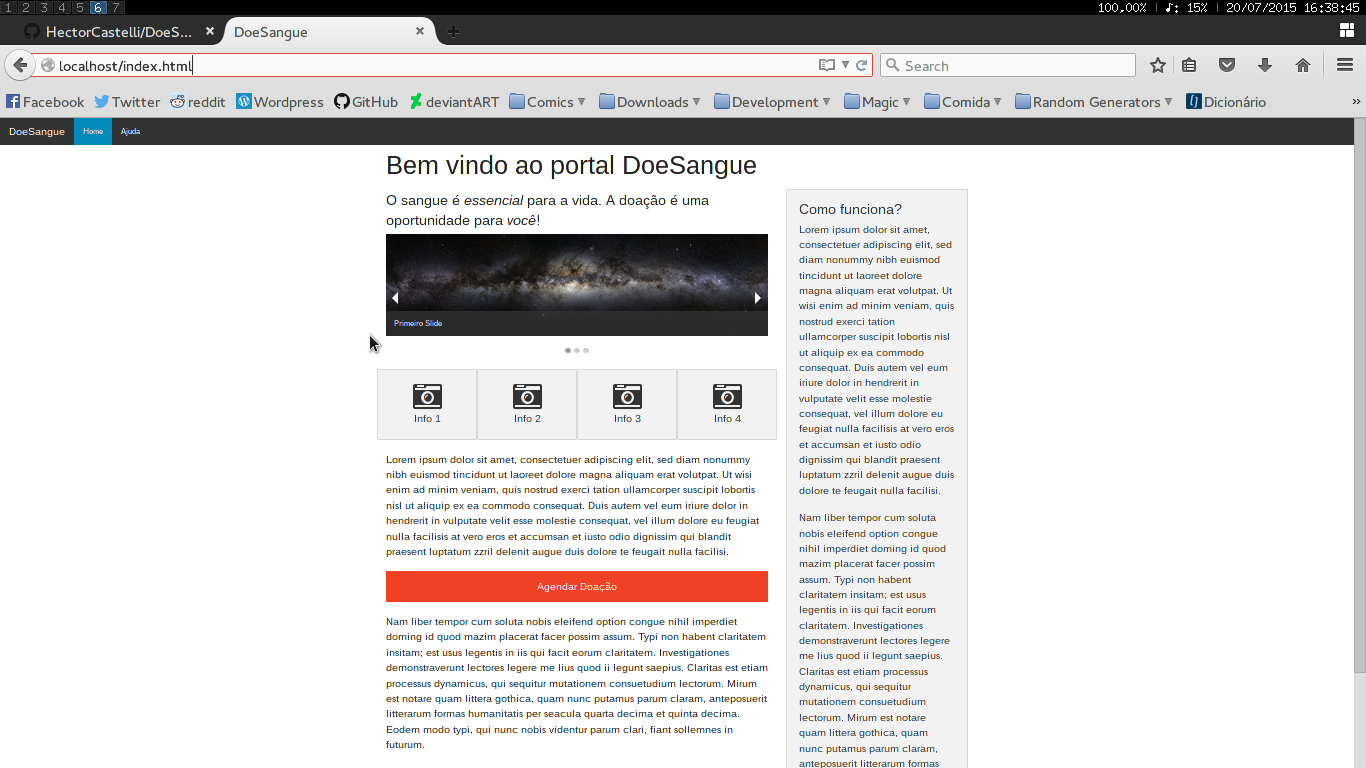
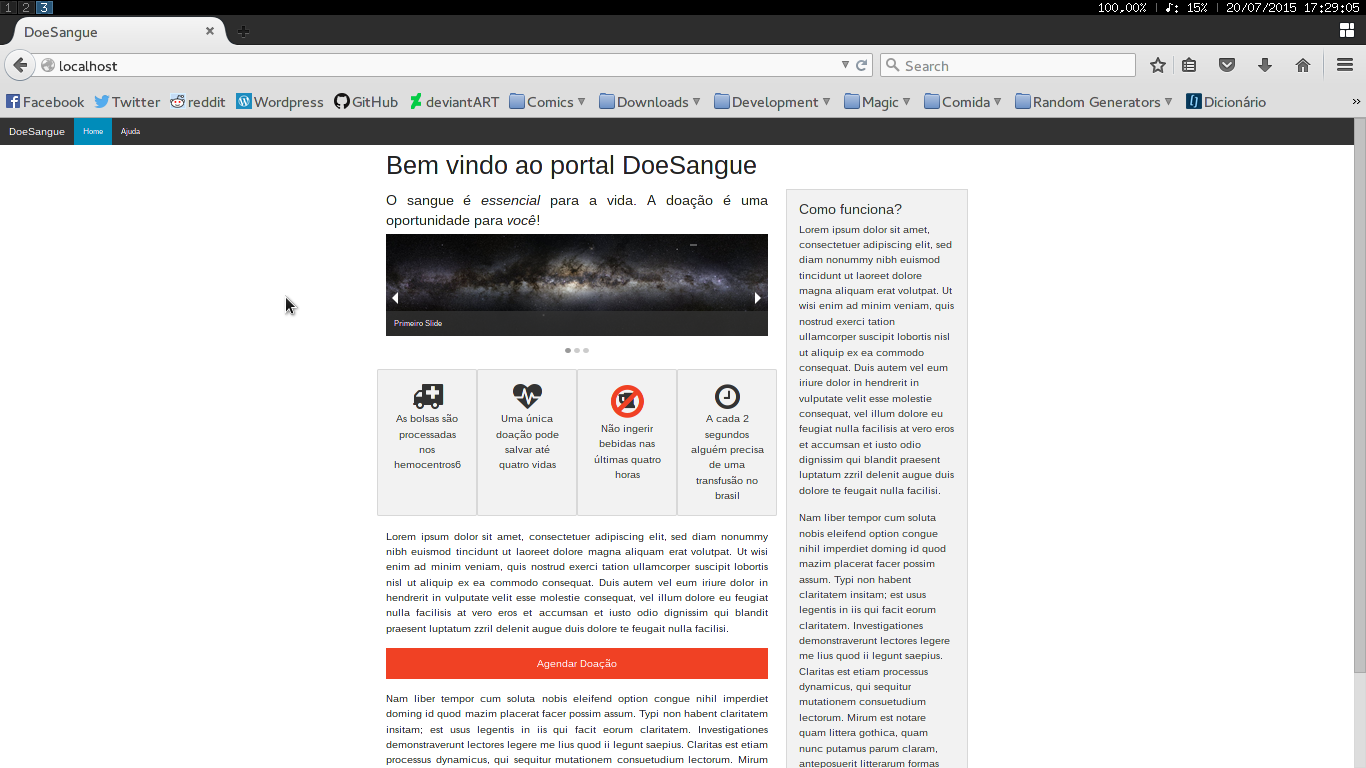
Added smart classes for text coloring

diff --git a/Website/scss/app.scss b/Website/scss/app.scss
@@ -41,3 +41,40 @@
 
 $fa-font-path:        "/bower_components/font-awesome/fonts";
 @import "font-awesome";
+
+// We use these as default colors throughout
+// $primary-color: #008CBA;
+// $secondary-color: #e7e7e7;
+// $alert-color: #f04124;
+// $success-color: #43AC6A;
+// $warning-color: #f08a24;
+// $info-color: #a0d3e8;
+
+
+// Add a class that changes the text color
+%color-primary{
+    color: $primary-color;
+}
+%color-secondary{
+    color: $secondary-color;
+}
+%color-alert{
+    color: $alert-color;
+}
+%color-success{
+    color: $success-color;
+}
+%color-warning{
+    color: $warning-color;
+}
+%color-info{
+    color: $info-color;
+}
+@mixin set-styles($arg) {
+    @extend %color-#{$arg};
+}
+@each $class in primary, secondary, alert, success, warning, info {
+  .#{$class}-text {
+    @include set-styles($class);
+  }
+}

diff --git a/Website/index.html b/Website/index.html
@@ -65,7 +65,7 @@
                   <div class="text-center small-6 medium-3 panel radius columns" data-equalizer-watch>
                       <span class="fa-stack fa-2x">
                           <i class=" fa fa-beer fa-stack-1x"></i>
-                          <i class="fa fa-ban fa-stack-2x" style="color:#f04124;"></i>
+                          <i class="fa fa-ban fa-stack-2x alert-text"></i>
                       </span>
                       <p class="show-for-medium-up">Não ingerir bebidas nas últimas quatro horas</p>
                   </div>

diff --git a/Website/stylesheets/app.css b/Website/stylesheets/app.css
@@ -12332,3 +12332,33 @@ th.hide-for-touch {
 .fa-medium:before {
   content: "";
 }
+
+/* line 55, ../scss/app.scss */
+.primary-text {
+  color: #008CBA;
+}
+
+/* line 58, ../scss/app.scss */
+.secondary-text {
+  color: #e7e7e7;
+}
+
+/* line 61, ../scss/app.scss */
+.alert-text {
+  color: #f04124;
+}
+
+/* line 64, ../scss/app.scss */
+.success-text {
+  color: #43AC6A;
+}
+
+/* line 67, ../scss/app.scss */
+.warning-text {
+  color: #f08a24;
+}
+
+/* line 70, ../scss/app.scss */
+.info-text {
+  color: #a0d3e8;
+}

diff --git a/Website/person.php b/Website/person.php
@@ -44,6 +44,7 @@
           <div class="large-8 small-12 columns">
             <h4>Insira seus dados abaixo para reservar seu horário</h4>
               <form method="post" action="register.php">
+                  <input type="hidden" name="campain" value=<?php echo ('"'.$_GET['campain'].'"'); ?>>
                   <div class="large-12 columns">
                     <div class="row collapse prefix-radius">
                       <div class="small-2 columns">
